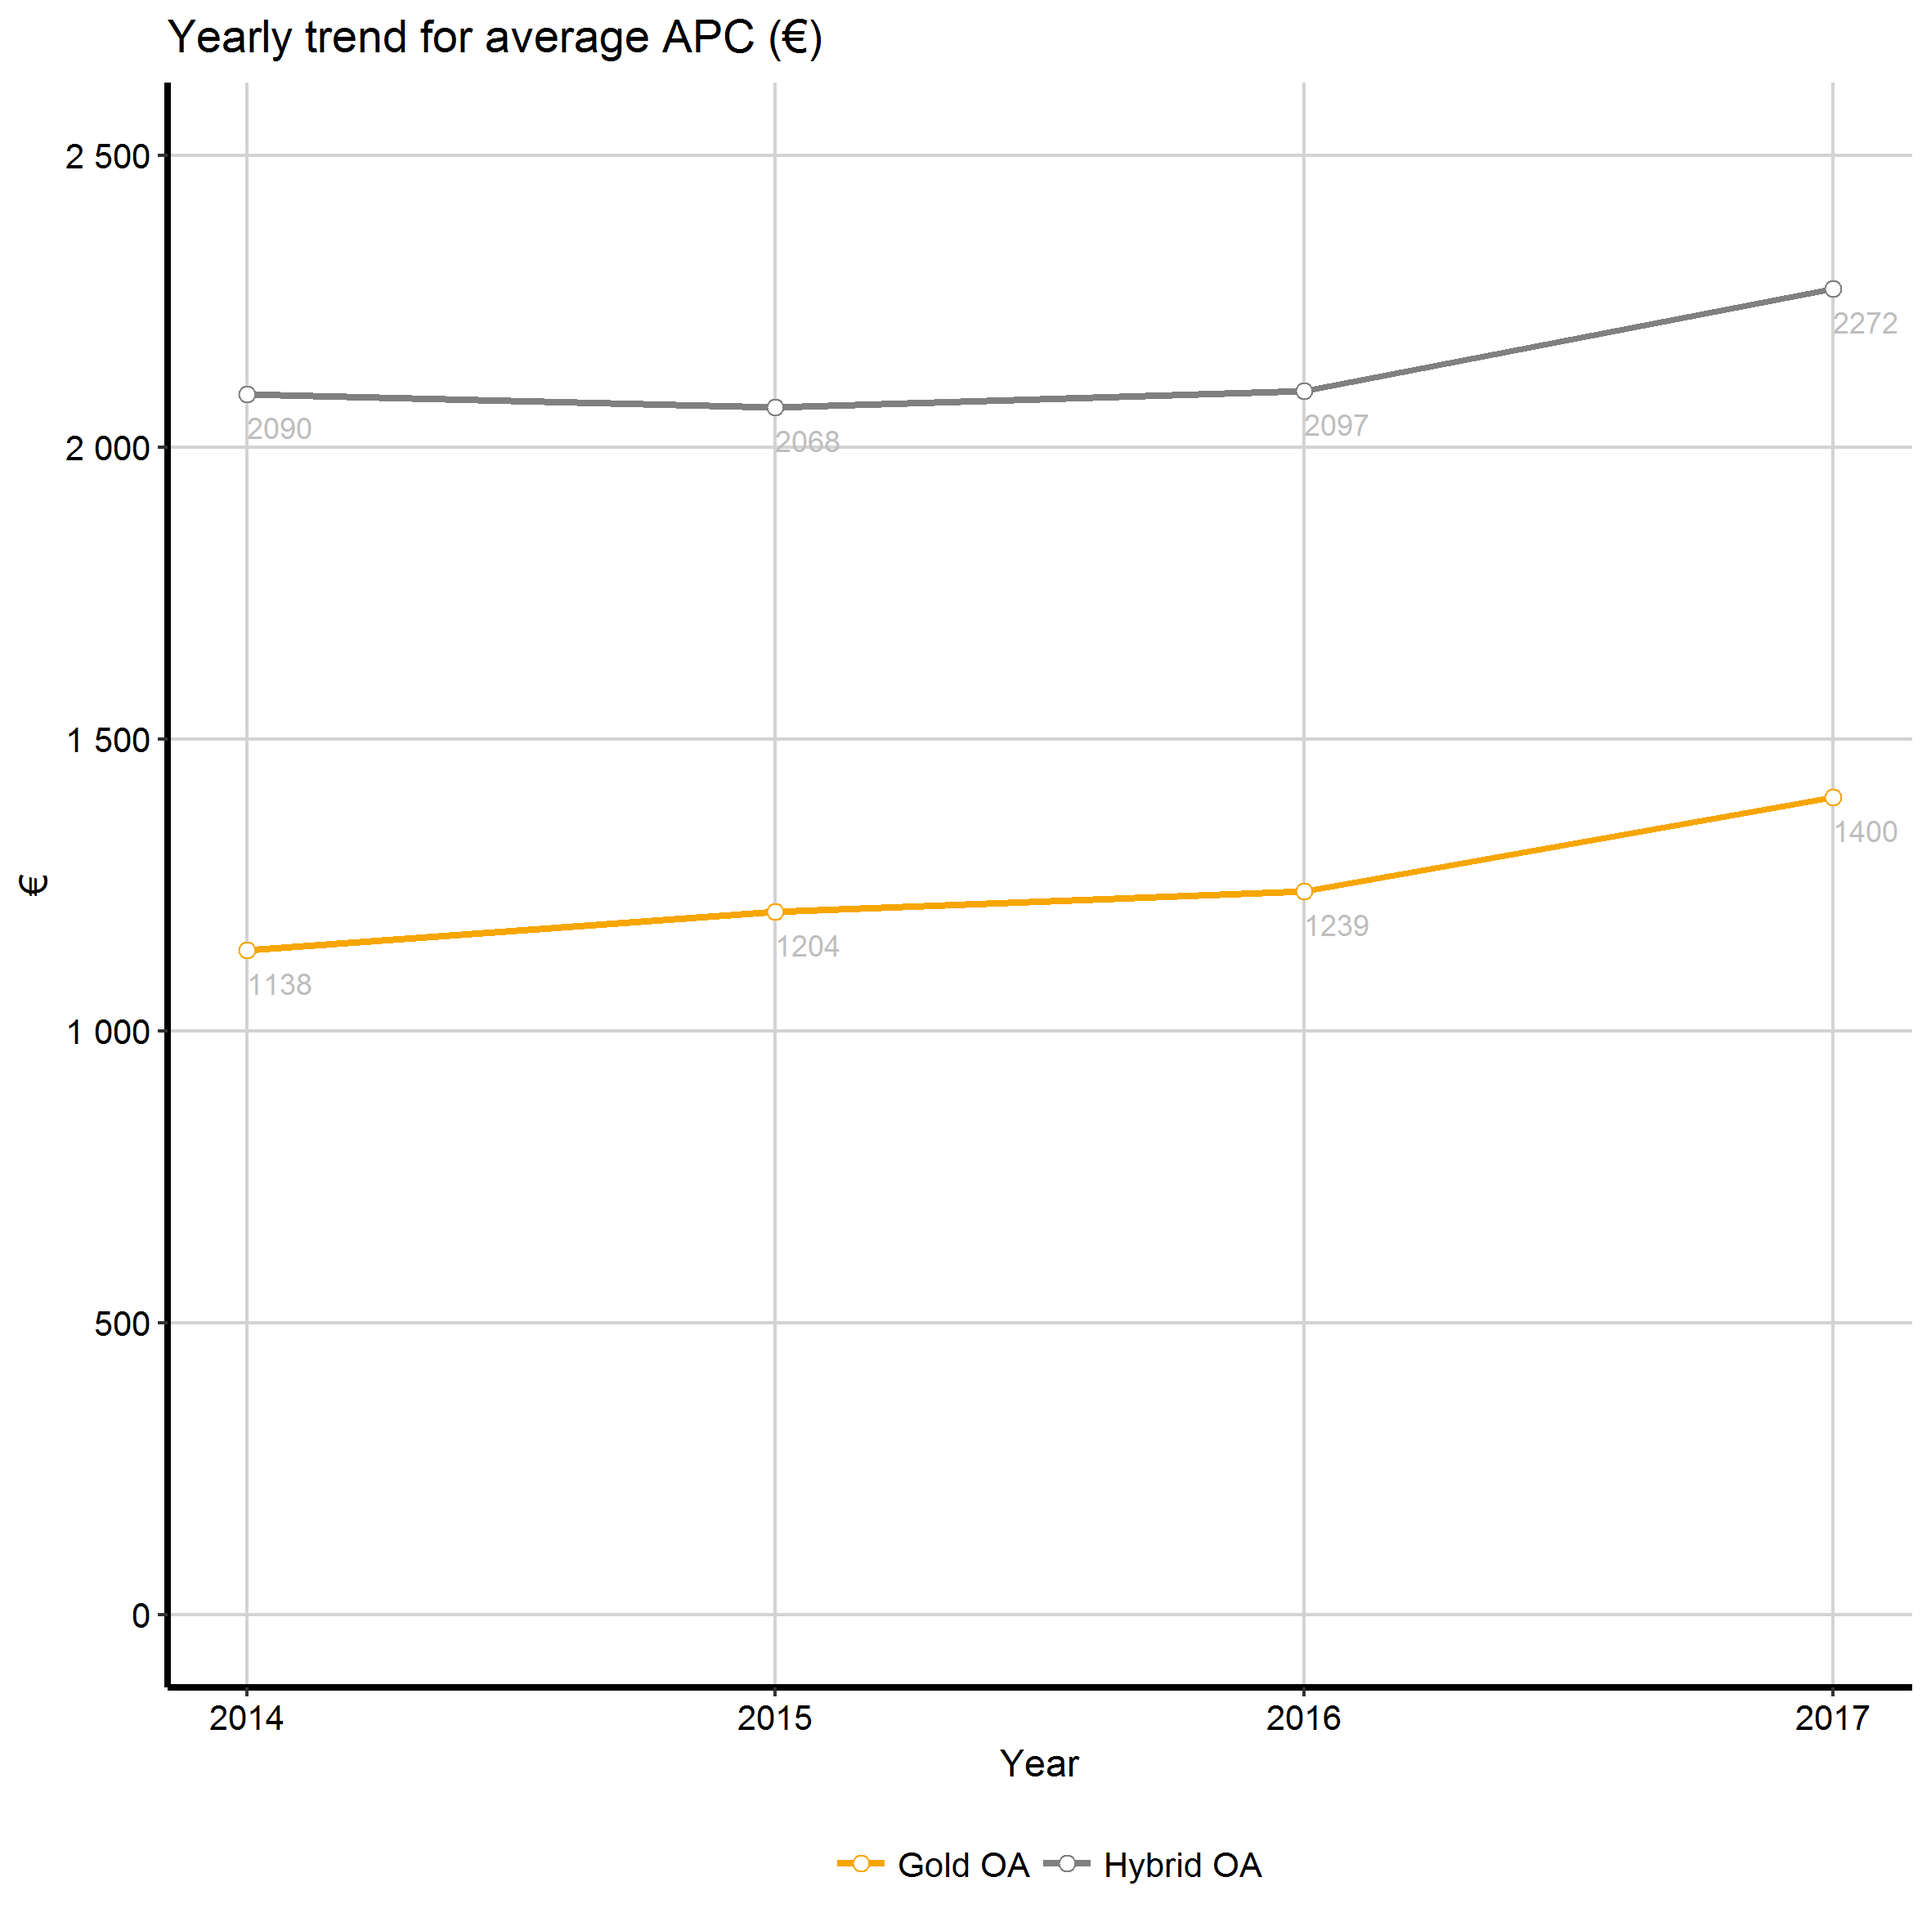
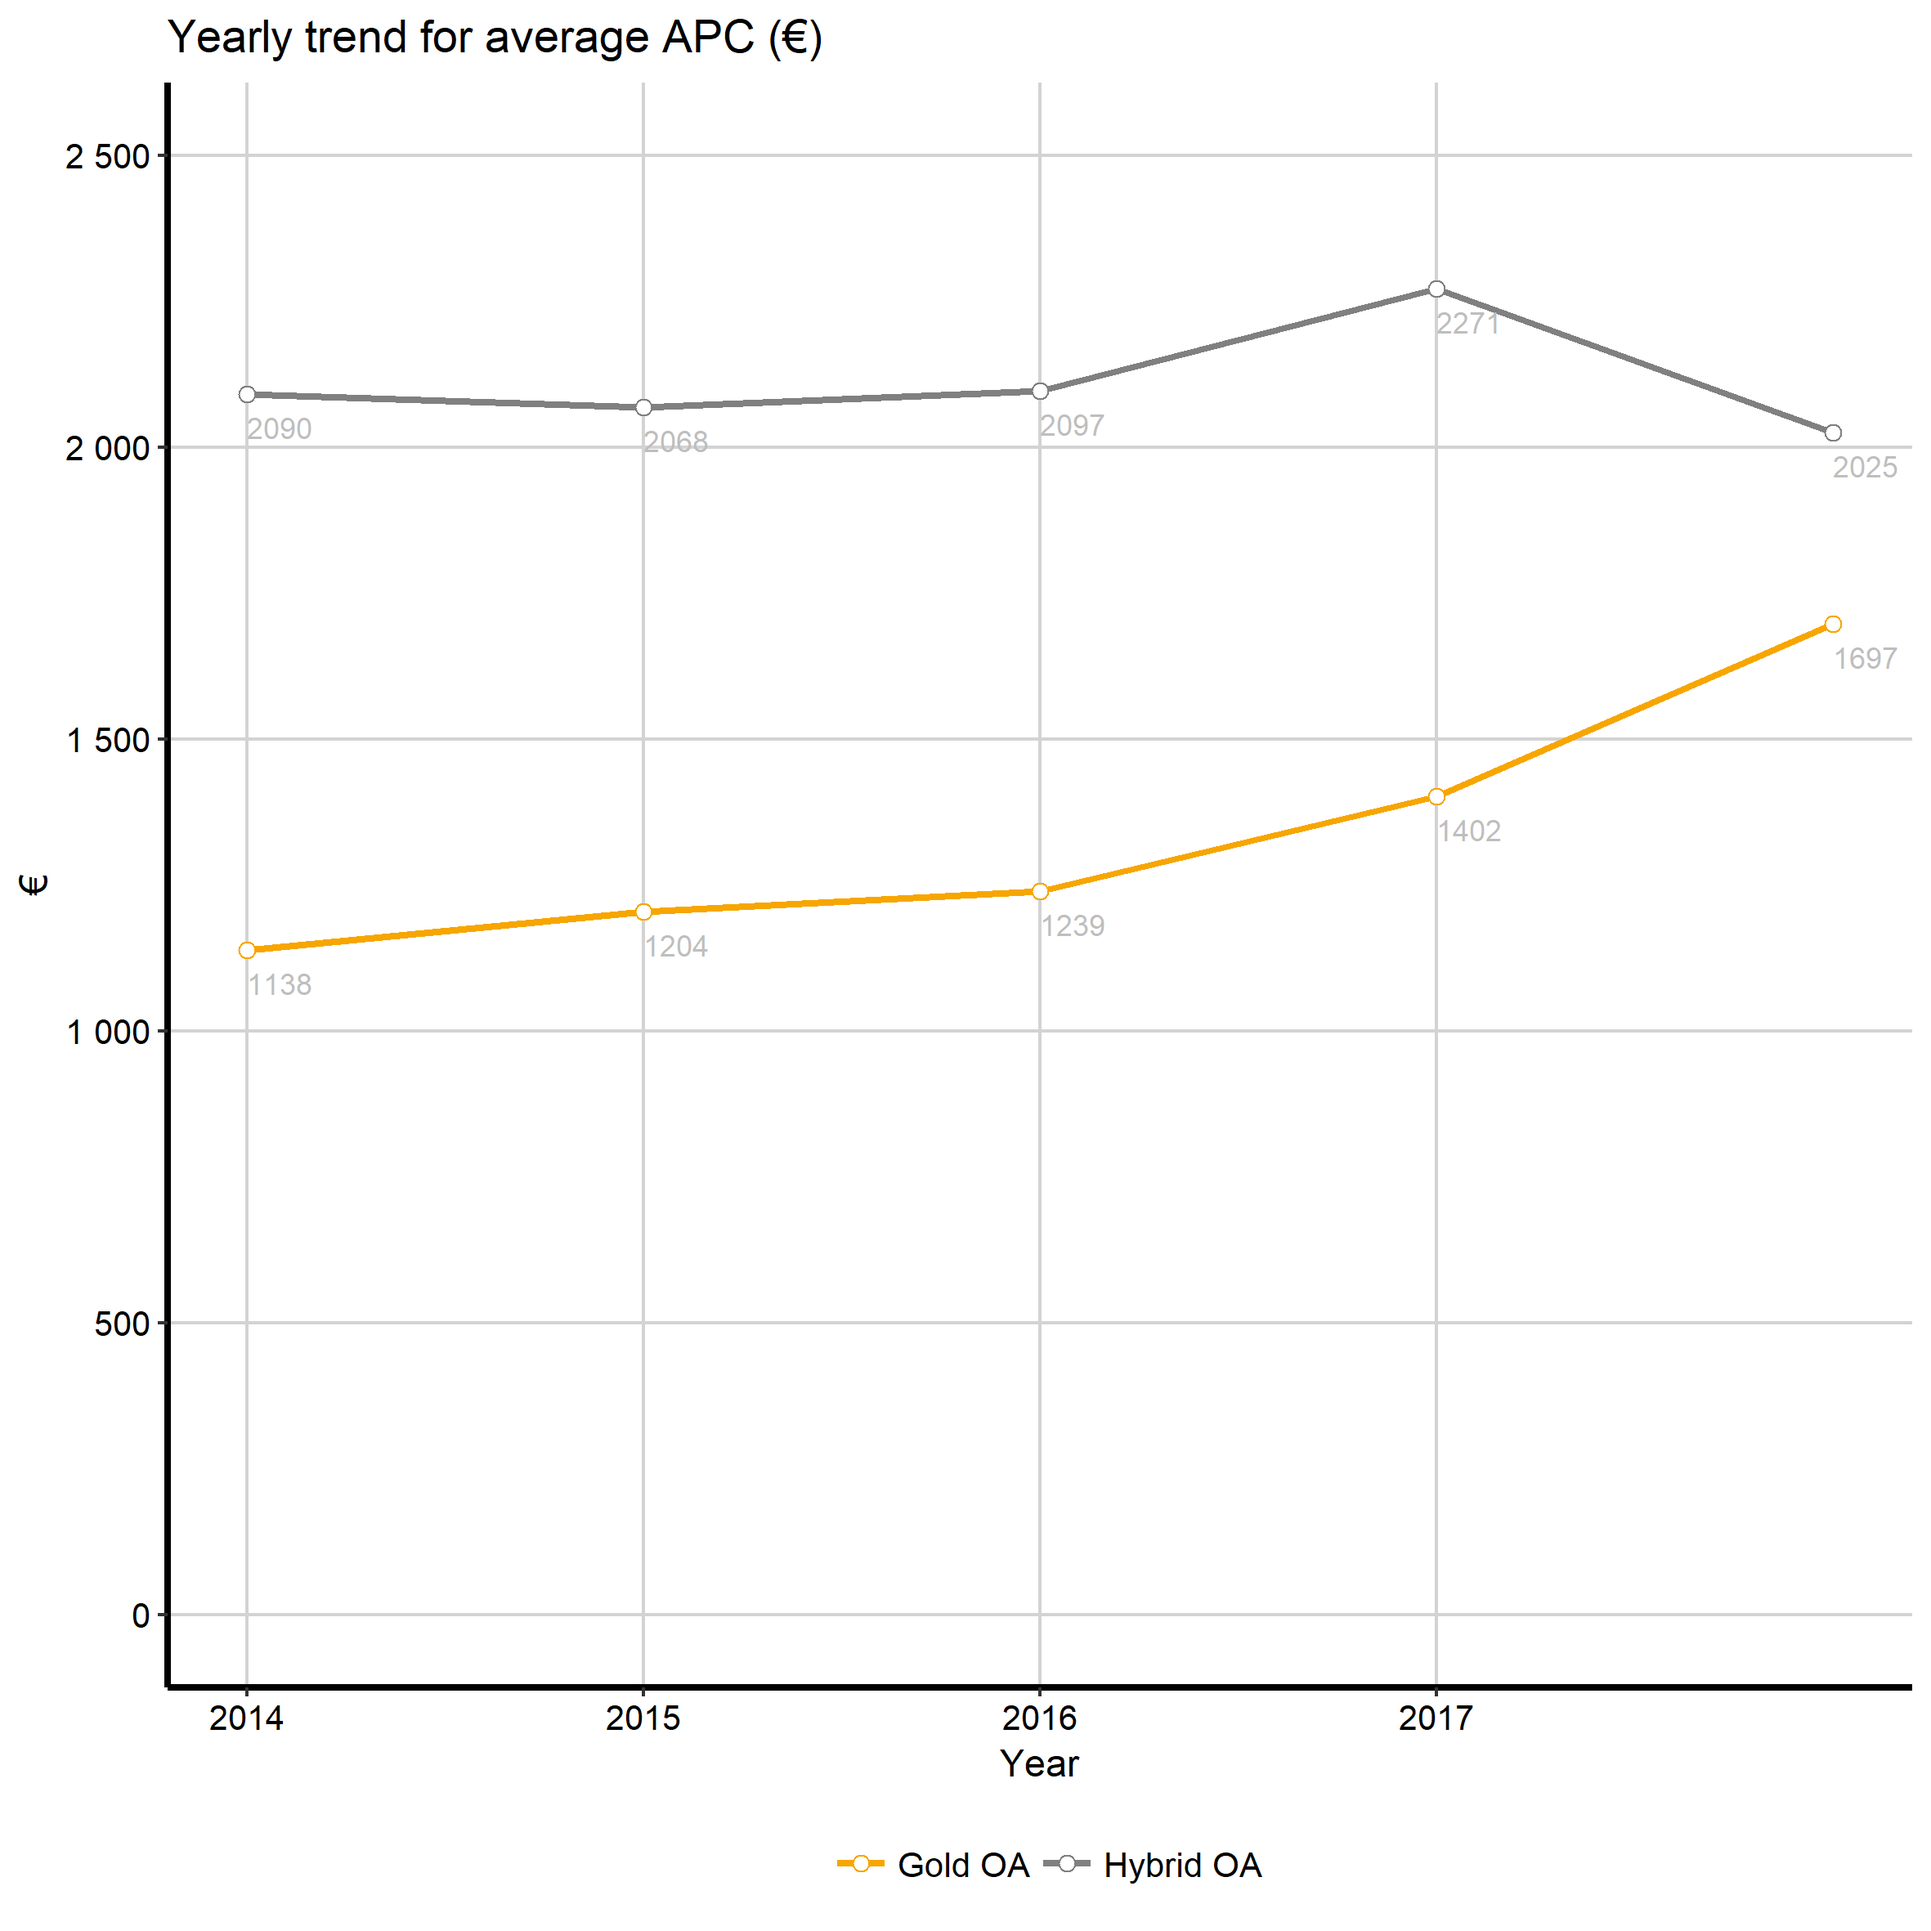
updated statistics

diff --git a/statistics.md b/statistics.md
@@ -4,7 +4,7 @@ Open APC Sweden - Statistics
 This is an example of statistics from the pilot project Open APC Sweden,
 aiming at gathering data about article processing charges (APC"s) paid
 by Swedish universities. The statistics cover journal articles published
-mainly between 2014 and **2 017** from **10** contributors. Please see
+mainly between 2014 and **2 018** from **11** contributors. Please see
 the [project wiki](https://github.com/Kungbib/openapc-se/wiki) for more
 information about the project and instructions on how to contribute.
 
@@ -45,6 +45,11 @@ KTH Royal Institute of Technology
 <tr>
 <td style="text-align:left;">
 Linköping University
+</td>
+</tr>
+<tr>
+<td style="text-align:left;">
+Linnaeus University
 </td>
 </tr>
 <tr>
@@ -130,8 +135,8 @@ Open Access Articles (Total: "gold", "hybrid" and "offset")
 
 At the moment, the dataset contains the following information:
 
--   Number of articles: **4 862**
--   Total expenditure: **9 065 508 €**
+-   Number of articles: **4 992**
+-   Total expenditure: **9 297 576 €**
 
 Articles and APC costs per institution (note that both delivering and
 non-delivering institutions are included):
@@ -288,10 +293,10 @@ KTH Royal Institute of Technology
 Linköping University
 </td>
 <td style="text-align:right;">
-340
+432
 </td>
 <td style="text-align:right;">
-630 486
+792 550
 </td>
 </tr>
 <tr>
@@ -299,10 +304,10 @@ Linköping University
 Linnaeus University
 </td>
 <td style="text-align:right;">
-34
+72
 </td>
 <td style="text-align:right;">
-73 230
+143 234
 </td>
 </tr>
 <tr>
@@ -533,11 +538,11 @@ Articles in Open Access journals ("gold OA"), offset articles excluded
 At the moment, the dataset contains the following information on
 articles in open access journals:
 
--   Number of articles: **1 773**
--   Total expenditure: **2 301 121 €**
--   Average fee: **1 298 €**
--   Median fee: **1 320 €**
--   Share of articles with no fees: **5.9 %**
+-   Number of articles: **1 867**
+-   Total expenditure: **2 456 355 €**
+-   Average fee: **1 316 €**
+-   Median fee: **1 330 €**
+-   Share of articles with no fees: **5.6 %**
 
 Gold OA and APC costs per institution (note that both delivering and
 non-delivering institutions are included):
@@ -651,19 +656,19 @@ KTH Royal Institute of Technology
 Linköping University
 </td>
 <td style="text-align:right;">
-169
+243
 </td>
 <td style="text-align:right;">
-261 205
+386 814
 </td>
 <td style="text-align:right;">
-1 546
+1 592
 </td>
 <td style="text-align:right;">
-1 355
+1 370
 </td>
 <td style="text-align:right;">
-2
+1
 </td>
 </tr>
 <tr>
@@ -671,16 +676,16 @@ Linköping University
 Linnaeus University
 </td>
 <td style="text-align:right;">
-1
+21
 </td>
 <td style="text-align:right;">
-630
+30 254
 </td>
 <td style="text-align:right;">
-630
+1 441
 </td>
 <td style="text-align:right;">
-630
+1 361
 </td>
 <td style="text-align:right;">
 0
@@ -914,7 +919,7 @@ PLOS ONE
 Public Library of Science (PLoS)
 </td>
 <td style="text-align:right;">
-217
+224
 </td>
 </tr>
 <tr>
@@ -925,7 +930,7 @@ Scientific Reports
 Springer
 </td>
 <td style="text-align:right;">
-114
+128
 </td>
 </tr>
 <tr>
@@ -936,7 +941,7 @@ Acta Veterinaria Scandinavica
 BioMed Central
 </td>
 <td style="text-align:right;">
-43
+44
 </td>
 </tr>
 <tr>
@@ -969,7 +974,7 @@ Sustainability
 MDPI
 </td>
 <td style="text-align:right;">
-29
+33
 </td>
 </tr>
 <tr>
@@ -1025,11 +1030,11 @@ In many subscription journals some of the articles are open access after
 a fee has been paid. This model is called "hybrid open access". The
 dataset covers the following data on hybrid open access articles:
 
--   Number of articles: **1 162**
--   Total expenditure: **2 524 987 €**
--   Average fee: **2 173 €**
+-   Number of articles: **1 198**
+-   Total expenditure: **2 601 821 €**
+-   Average fee: **2 172 €**
 -   Median fee: **2 200 €**
--   Share of articles with no fees: **0.77 %**
+-   Share of articles with no fees: **0.75 %**
 
 Hybrid OA and APC costs per institution (note that both delivering and
 non-delivering institutions are included):
@@ -1163,16 +1168,36 @@ KTH Royal Institute of Technology
 Linköping University
 </td>
 <td style="text-align:right;">
-53
+71
 </td>
 <td style="text-align:right;">
-109 682
+146 136
 </td>
 <td style="text-align:right;">
-2 069
+2 058
 </td>
 <td style="text-align:right;">
 2 132
+</td>
+<td style="text-align:right;">
+0
+</td>
+</tr>
+<tr>
+<td style="text-align:left;">
+Linnaeus University
+</td>
+<td style="text-align:right;">
+18
+</td>
+<td style="text-align:right;">
+40 380
+</td>
+<td style="text-align:right;">
+2 243
+</td>
+<td style="text-align:right;">
+2 109
 </td>
 <td style="text-align:right;">
 0
